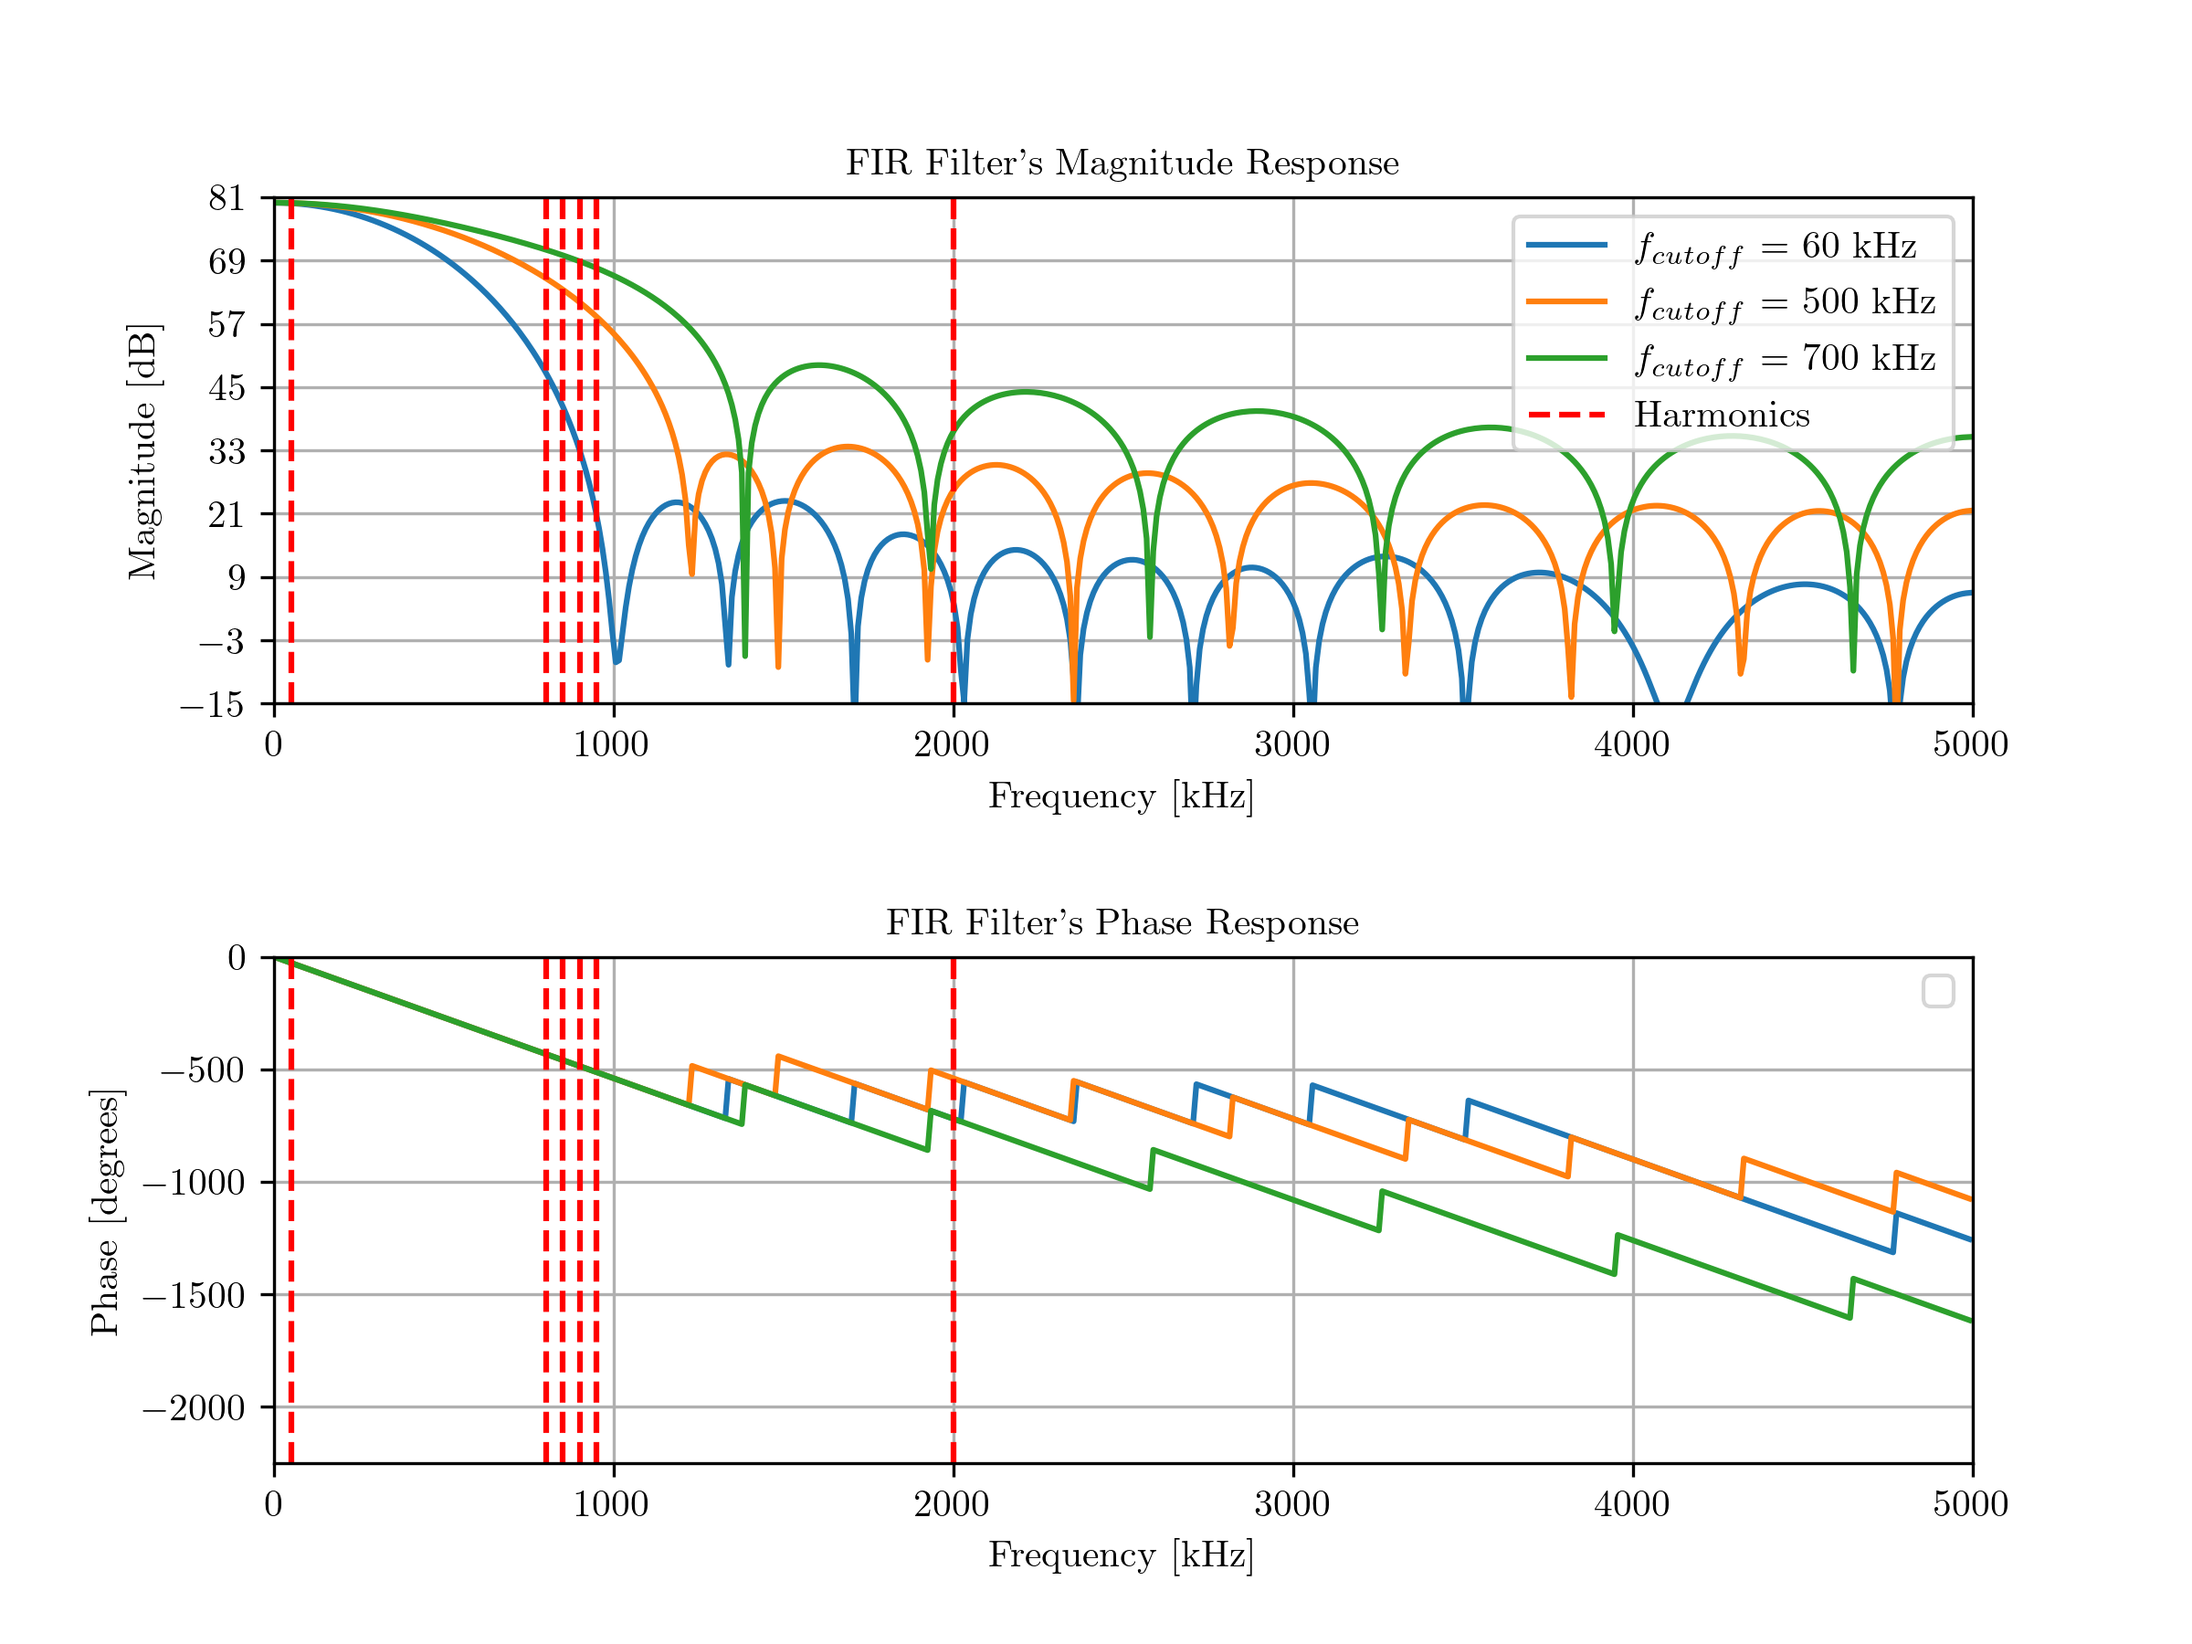
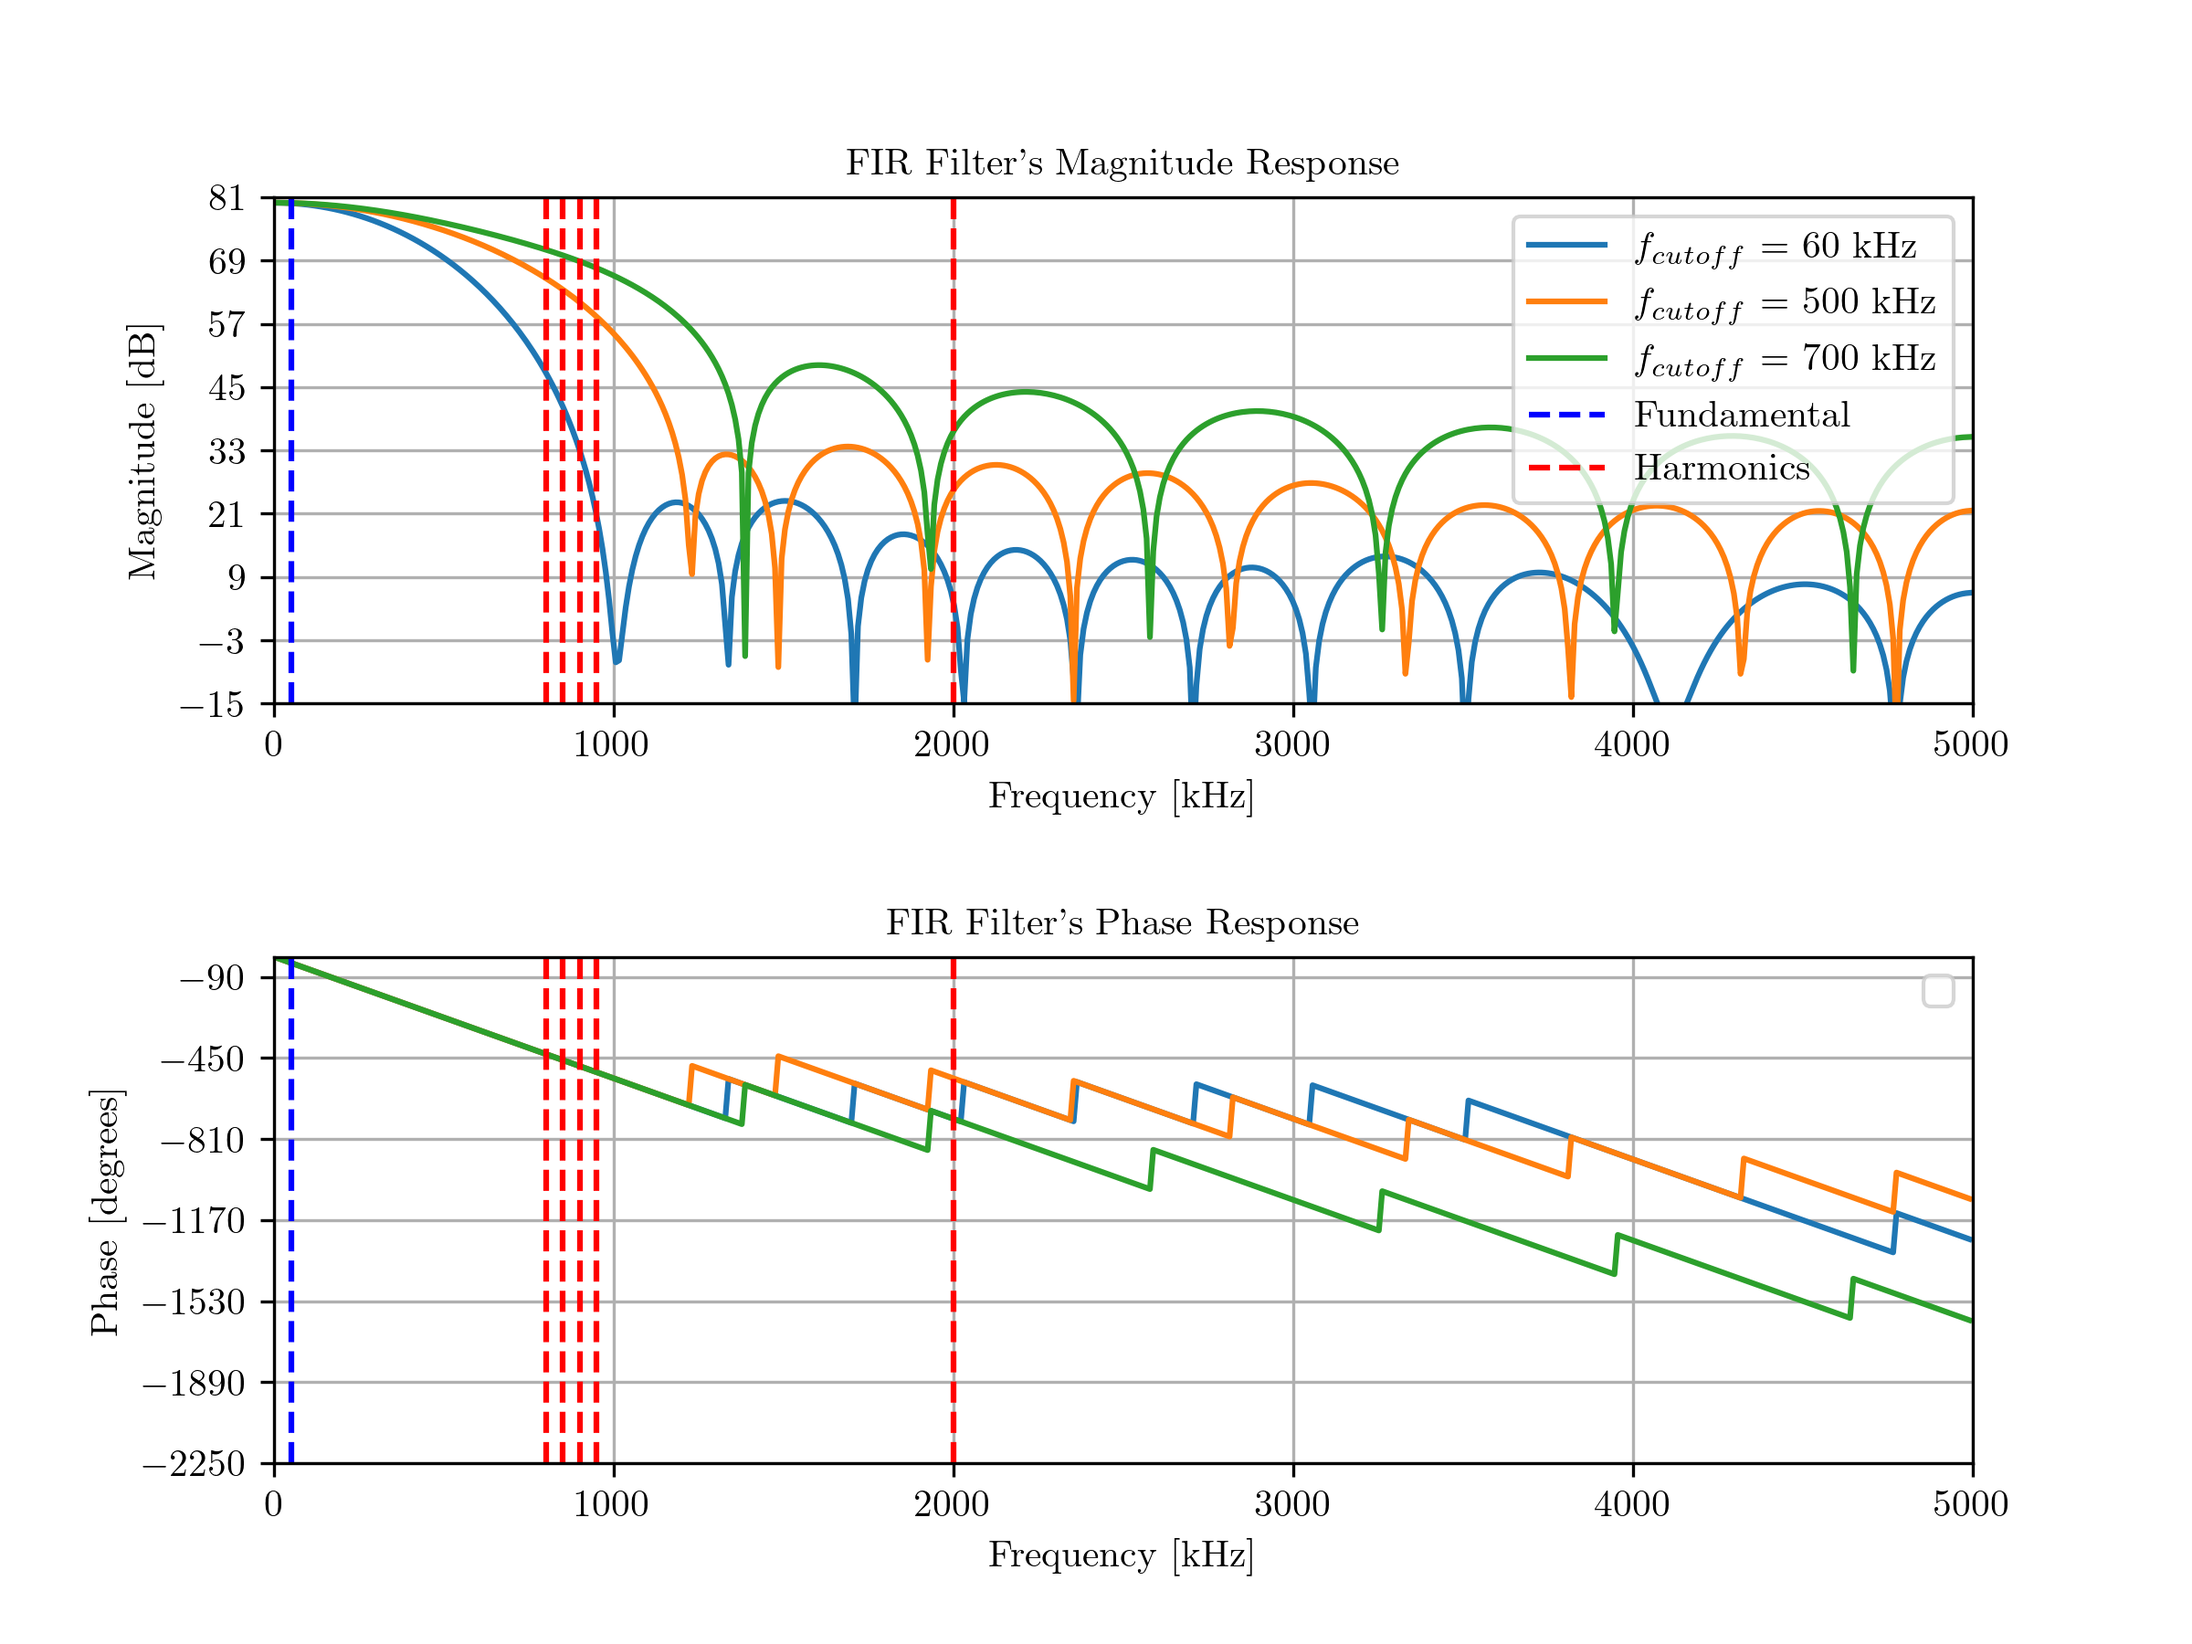
Minor corrections on filter prototype.

diff --git a/TP_Final/Prototipo/FIR_Filter_Prototype_MYS_04.py b/TP_Final/Prototipo/FIR_Filter_Prototype_MYS_04.py
@@ -125,7 +125,8 @@ def plot_fir_response(h_1, h_2, h_3, f_sampling):
     plt.plot(freq_hz/1000, mag_response_1_db, label='$f_{cutoff}$ = 60 kHz')
     plt.plot(freq_hz/1000, mag_response_2_db, label='$f_{cutoff}$ = 500 kHz')
     plt.plot(freq_hz/1000, mag_response_3_db, label='$f_{cutoff}$ = 700 kHz')
-    plt.vlines(x=frequencies, ymin=-15, ymax=81, color='r', linestyle='--', label='Harmonics')
+    plt.vlines(x=frequencies[0], ymin=-15, ymax=81, color='b', linestyle='--', label='Fundamental')
+    plt.vlines(x=frequencies[1:], ymin=-15, ymax=81, color='r', linestyle='--', label='Harmonics')
     plt.title("FIR Filter's Magnitude Response", fontsize=10)
     plt.ylabel('Magnitude [dB]', fontsize=10)
     plt.xlabel('Frequency [kHz]', fontsize=10)
@@ -140,13 +141,14 @@ def plot_fir_response(h_1, h_2, h_3, f_sampling):
     plt.plot(freq_hz/1000, phase_response_1_unwrapped_deg)
     plt.plot(freq_hz/1000, phase_response_2_unwrapped_deg)
     plt.plot(freq_hz/1000, phase_response_3_unwrapped_deg)
-    plt.vlines(x=frequencies, ymin=-2250, ymax=0, color='r', linestyle='--')
+    plt.vlines(x=frequencies[0], ymin=-2250, ymax=0, color='b', linestyle='--')
+    plt.vlines(x=frequencies[1:], ymin=-2250, ymax=0, color='r', linestyle='--')    
     plt.title("FIR Filter's Phase Response", fontsize=10)
     plt.ylabel('Phase [degrees]', fontsize=10)
     plt.xlabel('Frequency [kHz]', fontsize=10)
     plt.xlim([0, 5e3]) # Set x-axis limits
     plt.ylim([-2250, 0]) # Set y-axis limits
-    # plt.yticks(np.arange(-2250, 1, 180)) # Set y-axis ticks
+    plt.yticks(np.arange(-2250, 1, 360)) # Set y-axis ticks
     plt.grid()
     plt.legend()
 
@@ -202,7 +204,7 @@ M = 31 # Filter length.
 f = 50e3 # Signal frequency.
 f_sampling = 10e6 # Sampling frequency.
 
-f_cutoff_1 = 60e3
+f_cutoff_1 = 60e3  # Cutoff frequency
 f_cutoff_2 = 500e3 # Cutoff frequency
 f_cutoff_3 = 700e3 # Cutoff frequency
 
